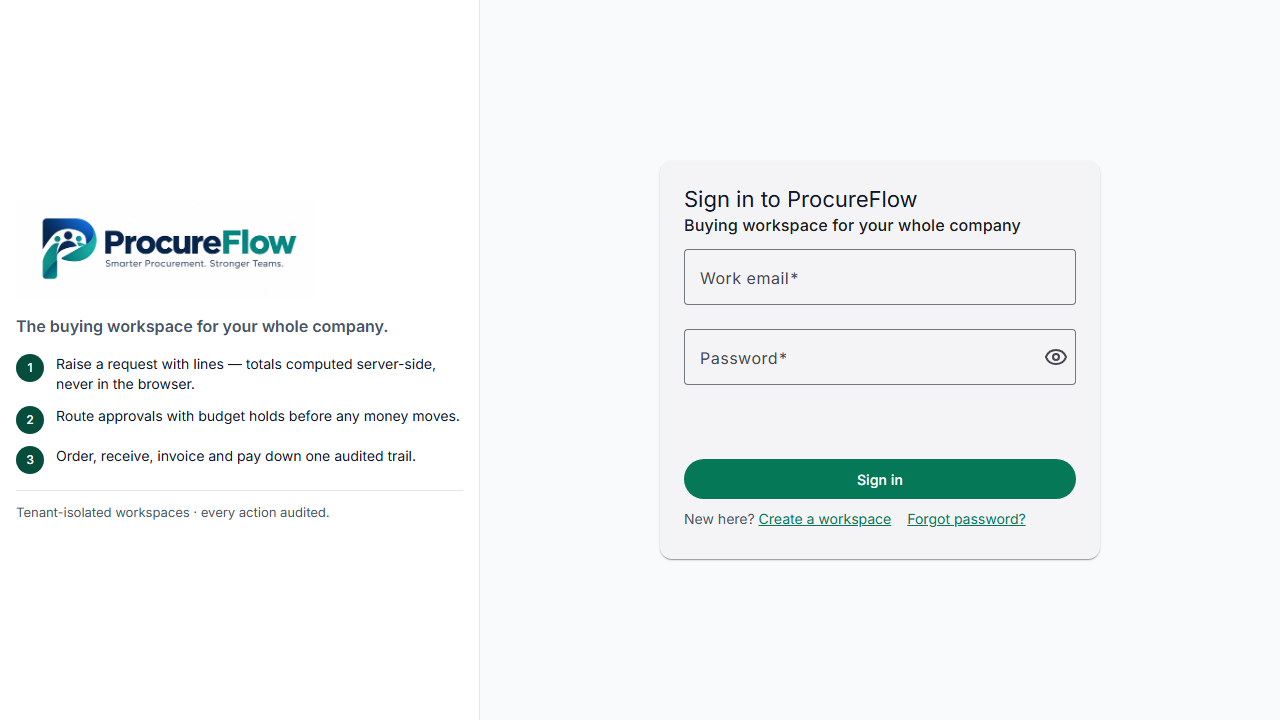
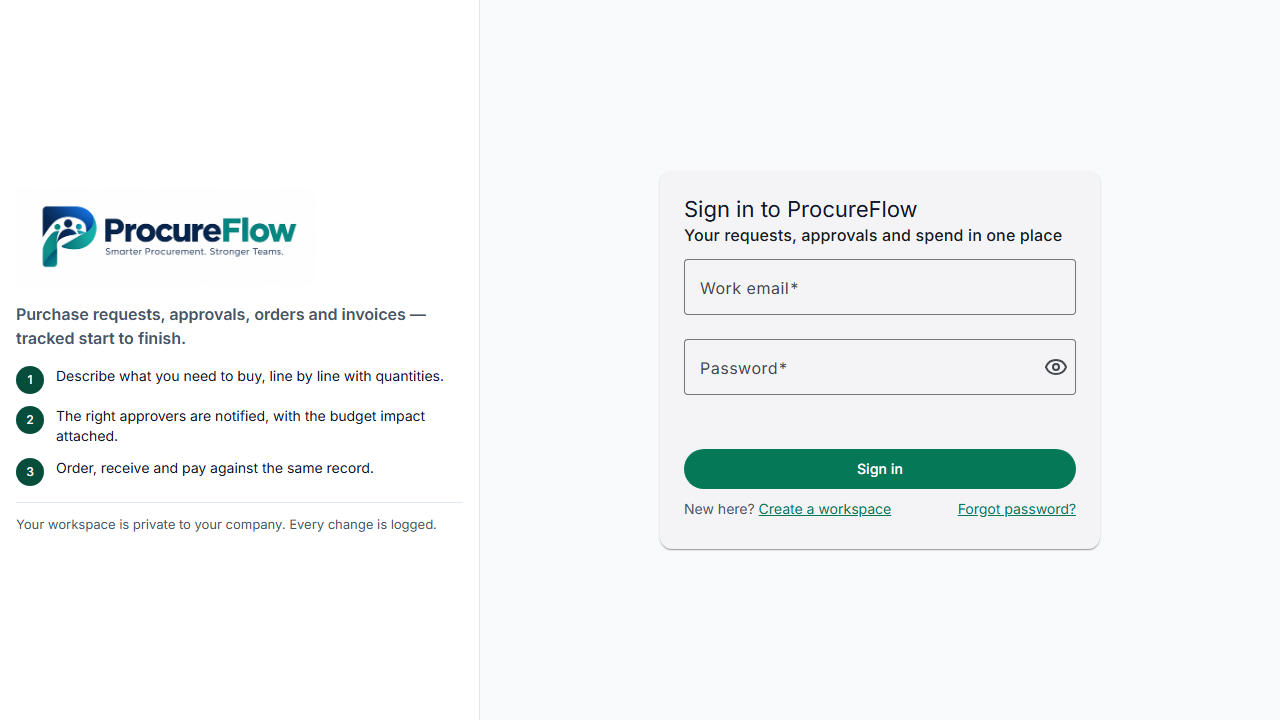
feat(frontend): grounded brand-panel copy on login and register
The panel steps bragged about implementation (server-side totals) instead of telling users what they can do. Rewritten as plain product truths: describe lines, approvers notified with budget impact, one shared record; assurance line in plain words. Shots 36-38 re-captured.

diff --git a/frontend/src/app/features/auth/login.component.html b/frontend/src/app/features/auth/login.component.html
@@ -1,13 +1,13 @@
 <div class="auth-shell">
   <aside class="auth-brand-panel" aria-label="About ProcureFlow">
     <img class="auth-logo" src="/brand/logo.png" alt="ProcureFlow — Smarter Procurement. Stronger Teams." />
-    <p class="auth-tagline">The buying workspace for your whole company.</p>
+    <p class="auth-tagline">Purchase requests, approvals, orders and invoices — tracked start to finish.</p>
     <ol class="auth-steps">
-      <li>Raise a request with lines — totals computed server-side, never in the browser.</li>
-      <li>Route approvals with budget holds before any money moves.</li>
-      <li>Order, receive, invoice and pay down one audited trail.</li>
+      <li>Describe what you need to buy, line by line with quantities.</li>
+      <li>The right approvers are notified, with the budget impact attached.</li>
+      <li>Order, receive and pay against the same record.</li>
     </ol>
-    <p class="auth-assurance">Tenant-isolated workspaces · every action audited.</p>
+    <p class="auth-assurance">Your workspace is private to your company. Every change is logged.</p>
   </aside>
   <main class="auth-main">
     <mat-card class="auth-card">

diff --git a/frontend/src/app/features/auth/register.component.html b/frontend/src/app/features/auth/register.component.html
@@ -1,13 +1,13 @@
 <div class="auth-shell">
   <aside class="auth-brand-panel" aria-label="About ProcureFlow">
     <img class="auth-logo" src="/brand/logo.png" alt="ProcureFlow — Smarter Procurement. Stronger Teams." />
-    <p class="auth-tagline">The buying workspace for your whole company.</p>
+    <p class="auth-tagline">Purchase requests, approvals, orders and invoices — tracked start to finish.</p>
     <ol class="auth-steps">
-      <li>Raise a request with lines — totals computed server-side, never in the browser.</li>
-      <li>Route approvals with budget holds before any money moves.</li>
-      <li>Order, receive, invoice and pay down one audited trail.</li>
+      <li>Describe what you need to buy, line by line with quantities.</li>
+      <li>The right approvers are notified, with the budget impact attached.</li>
+      <li>Order, receive and pay against the same record.</li>
     </ol>
-    <p class="auth-assurance">Tenant-isolated workspaces · every action audited.</p>
+    <p class="auth-assurance">Your workspace is private to your company. Every change is logged.</p>
   </aside>
   <main class="auth-main">
     <mat-card class="auth-card">
